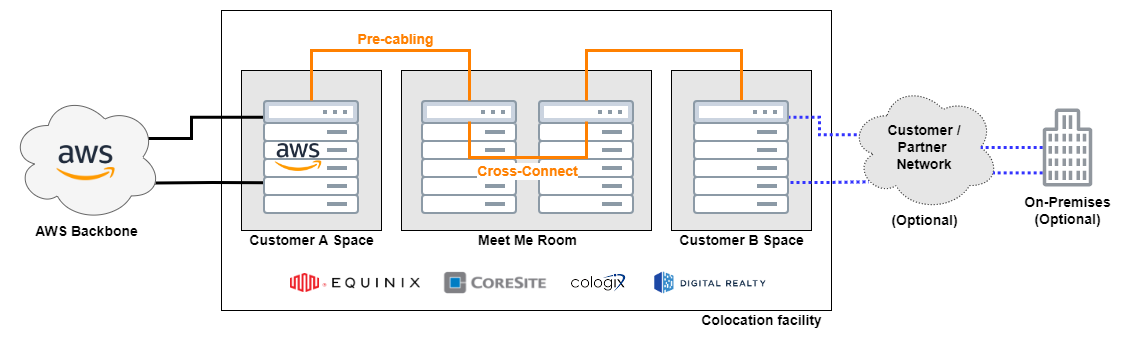
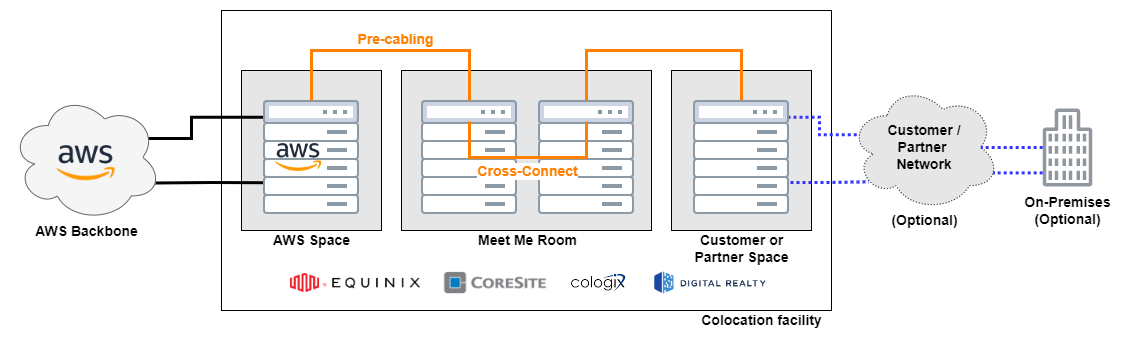
First iteration of DX Overview article

Changed region(s): [[0.5895, 0.6745, 0.7137, 0.7918], [0.2172, 0.6745, 0.3413, 0.7331]]

diff --git a/_drafts/dx-overview.md b/_drafts/dx-overview.md
@@ -12,84 +12,140 @@ tags:
 toc: true
 ---
 
-Intro of what to accomplish
+[AWS Direct Connect](https://aws.amazon.com/directconnect/) (DX) makes it easy to establish a dedicated connection from an on-premises network to AWS. Using AWS Direct Connect, you can establish private connectivity between AWS and your data center, office, factory or collocated environment. A DX connection can reduce network costs, increase bandwidth throughput, and provide a more consistent network experience than internet-based connections.
+
+This article will provide an overview of AWS Direct Connect, outlining the various elements, touch upon resiliency recommendations, connectivity options to on-premises and demystify the commercial workflow and associated costs. 
 
 # Overview
 
-AWS Direct Connect provides direct connectivity to the AWS Network via 3rd party colocation facilities (DX locations), using a cross-connect between an AWS-owned device and either a customer or partner owned device. 
+AWS Direct Connect provides direct physical connectivity to the AWS Network via 3rd party [colocation facilities (DX locations)](https://aws.amazon.com/directconnect/locations/), using a cross-connect between an AWS-owned device and either a customer or partner owned device (See figure 1). 
 
 {% include figure image_path="/content/uploads/2022/07/DX-Physical.png" caption="Figure 1: Direct Connect Overview" %}
 
+These colocation facilities are not AWS data centers, but rather colocation facilities operated by 3rd part providers such as [Equinix](https://www.equinix.com/), [CoreSite](https://www.coresite.com/), [Cologix](https://cologix.com/), [Digital Realty](https://www.digitalrealty.com/), and others. A colocation data center, often referred to as a "colo", is a large datacenter facility that rents out rack space to third parties for their servers or other network equipment. This is a very popular service that is used by businesses that may not have the resources needed to maintain their own data center, but still want to enjoy all the benefits. Or it is used by Network Service Providers to interconnect with partners - such as cloud providers - or customers.
+
+# Benefits
+
+The benefits of using AWS Direct Connect over the open Internet can be categorized into:
+
+* **Improved Performance and Reliability:** Improve application performance by connecting directly to AWS and bypassing the public internet. Using DX typically reduces the number of network hops and therefore reduced latency. 
+
+* **Reduced costs:** Reduced networking costs with low data transfer rates out of AWS compared to data egress fees over the Internet.
+
+* **Increased security:** Secure data as it moves between on-premises networks and AWS with multiple encryption options, such as MACsec (IEEE 802.1ae).
+
+
 # Elements
 
-An AWS Direct Connect consists of two elements: Physical Connection and Logical Connection
+An AWS Direct Connect consists of two elements: The physical connection and the logical virtual interfaces:
 
-## Physical Connection
+## Physical Elements: Connection
 
-Ethernet over single-mode fiber, providing an 802.1Q trunk (VLANs). 1000BASE-LX (1310 nm) transceiver for 1 gigabit Ethernet, or a 10GBASE-LR (1310 nm) transceiver for 10 gigabit Ethernet, or a 100GBASE-LR4 for 100 gigabit Ethernet..
-
-{% include figure image_path="/content/uploads/2022/07/DX-Cross-Connect.png" caption="Figure 2: Direct Connect Cross Connect" %}
-
-## Logical Connection
-
-One or more of the following virtual interface types:
-* Private virtual interface: Access an Amazon VPC using private IP addresses.
-* Public virtual interface: Access AWS services from your on-premises data center. Allow AWS services, or AWS customers access your public networks over the interface instead of traversing the internet
-* Transit virtual interface: Access one or more Amazon VPC Transit Gateways associated with Direct Connect gateways. You can use transit virtual interfaces with 1/2/5/10/100 Gbps AWS Direct Connect connections. 
-
-{% include figure image_path="/content/uploads/2022/07/DX-VIFs-Overview.png" caption="Figure 3: Direct Connect Logical Overview" %}
-
-# Connection Types
-
-There are three types of connections.
+Three different connection options exist with "Dedicated Connections", "Hosted Connections" and the legacy model of "Hosted Virtual Interfaces" - which is no longer available for new connections.  
 
 | |Dedicated Connections|Hosted Connections|Hosted Virtual Interfaces (Legacy)|
 |---|---|---|---|
 |**AWS asigned capacity**|1 Gbps, 10 Gbps or 100 Gbps|50 Mbps to 10 Gbps|None|
 |**Private or Public Virtual Interfaces (VIFs)**|50|1|1|
 |**Transit Virtual Interface (VIF)**|1|1 (if assigned capacity >= 1 Gbps)|None|
+|**Partner-only offering**|No|Yes|Yes|
 |**Covered under SLA**|Yes|No|No|
 |**Supports MACsec (802.1ae)**|Yes (10 Gbps or 100 Gbps at select locations)|No|No|
 
+### Dedicated Connection
 
-## Dedicated Connection
+In the case of a "Dedicated Connection", the customer or partner is provided with a dedicated Ethernet over single-mode fiber, providing an 802.1q trunk (VLANs) via a cross-connect within a DX location. 
+Customers can request a dedicated connection through the AWS Direct Connect console, the CLI, or the API. Each dedicated connection can provide 50 Private or Public Virtual Interfaces, as well as 1 Transit Virtual Interface. 
 
-A physical Ethernet connection associated with a single customer. Customers can request a dedicated connection through the AWS Direct Connect console, the CLI, or the API. Each dedicated connection can provide 50 Private or Public Virtual Interfaces, as well as 1 Transit Virtual Interface. 
+As depicted in figure 1, the customer or partner will order the colo operator to create a cross-connect from a meet-me room to the customer's or partner's space - also somethimes called cage. 
 
-## Hosted Connection
+{% include figure image_path="/content/uploads/2022/07/meet-me-room.jpg" caption="Figure 2: Meet-me room in a colocation facility" %}
 
-A physical Ethernet connection that an AWS Direct Connect Partner provisions on behalf of a customer. Customers request a hosted connection by contacting a partner in the AWS Direct Connect Partner Program, who provisions the connection. A hosted connection can provide 1 Private Virtual Interface or 1 Public Virtual Interface or 1 Transit Virtual Interface (If the connection speed is 1 Gbps or higher). This connection type is not covered under the [Direct Connect Service Level Agreement (SLA)](https://aws.amazon.com/directconnect/sla/).
+A meet-me room is part of a colo that you will most likely never get to see in real life (See figure 2). It is a room where only authorized personell of the colo operator is allowed access to and where data connections are established between customers of the colo. To do so, one customer has to obtain a Letter of Authorization - Connecting Facility Assignment (LOA-CFA) from the other customer - in this case AWS - and provide it to the colo operator. This LOA-CFA document specifies which pre-cabled connection is to be used for this particular customer. 
 
-## Hosted Virtual Interface (Legacy)
+The colo operator will then typically terminate the cross connect within the customer or partner space at the top of a particular rack in form of a patch panel (See Figure 3). 
 
-This is a legacy offering which is no longer available for new provisioning by AWS Direct Connect partners, but might still be found in use among customers. This connection type does not provide a bandwidth allocation (oversubscription) and only provides 1 Private Virtual Interface or 1 Public Virtual Interface. No Transit Virtual Interface can be provided. This connection type is not covered under the [Direct Connect Service Level Agreement (SLA)](https://aws.amazon.com/directconnect/sla/).
+{% include figure image_path="/content/uploads/2022/07/DX-Cross-Connect.png" caption="Figure 3: Direct Connect Cross Connect within a customer's rack" %}
+
+Depending on the chosen speed of the DX connection, different [optical transceiver](https://en.wikipedia.org/wiki/Optical_module) are then used on the customer or partner side to terminate the DX connection on network equipment: 
+
+* 1 Gigabit Ethernet: 1000BASE-LX (1310 nm) transceiver
+* 10 Gigabit Ethernet: 10GBASE-LR (1310 nm) transceiver
+* 100 gigabit Ethernet: 100GBASE-LR4 transceiver
+
+Multiple Connectivity options between the cross connect termination point and the customer's routers and workloads exist. Refer to the [Connectivity](#connectivity) section below to find out more about these options
+
+### Hosted Connection
+
+A physical Ethernet connection that an AWS Direct Connect Partner provisions on behalf of a customer.  This connection type is not covered under the [Direct Connect Service Level Agreement (SLA)](https://aws.amazon.com/directconnect/sla/).
+
+
+In the case of a Hosted Connection, the above described Dedicated Connection is operated by an [AWS Direct Connect Delivery Partner](https://aws.amazon.com/directconnect/partners/) - often a Network Service Provider - which then maps multiple virtual connections to a single physical connection. 
+Customers request a Hosted Connection by contacting the AWS Direct Connect Delivery Partner directly. A hosted connection can provide 1 Private Virtual Interface or 1 Public Virtual Interface or 1 Transit Virtual Interface (If the connection speed is 1 Gbps or higher).
+
+These AWS Direct Connect Delivery Partners can also often offer network connectivity from an AWS Direct Connect location to an off-site location, such as an office building, factory or other data center. Therefore in such a scenario all equipment within the AWS Direct Connect location would be owned and operated by the AWS Direct Connect Delivery Partner and shared among multiple customers, usually resulting in lower operational cost and quicker initial implementation times. 
+
+In this case also multiple Connectivity options between the cross connect termination point on the partner's equipment and the customer's routers and workloads exist. Refer to the [Connectivity](#connectivity) section below to find out more about these options
+
+Note that this connection type is not covered under the AWS [Direct Connect Service Level Agreement (SLA)](https://aws.amazon.com/directconnect/sla/).
+
+### Hosted Virtual Interface (Legacy)
+
+This is a legacy offering which is no longer available for new provisioning by AWS Direct Connect Delivery Partners, but might still be found in use among existing customers. This connection type does not provide a dedicated bandwidth allocation on AWS side and is therefore at risk of oversubscription. It only provides 1 Private Virtual Interface or 1 Public Virtual Interface. No Transit Virtual Interface can be provided. This connection type is not covered under the [Direct Connect Service Level Agreement (SLA)](https://aws.amazon.com/directconnect/sla/).
+
+
+## Logical Elements: Virtual Interfaces (VIF)
+
+A Direct Connect connection supports one or multiple Virtual Interfaces (VIF) as logical component. Refer to the above table to understand which DX connection type offers what kind and how many virtual interfaces. 
+
+{% include figure image_path="/content/uploads/2022/07/DX-VIFs-Overview.png" caption="Figure 4: Direct Connect Logical Overview" %}
+
+While each Virtual Interface serves a different purpose, they are all provided as an IEEE 802.1q VLAN over a trunk and require use of BGP via IPv4 and/or IPv6 (See Figure 4):
+
+* **Private virtual interface:** Access an Amazon VPC using private IP addresses. Can be combined with a [Direct Connect Gateway](https://www.edge-cloud.net/2019/09/06/dx-gateway-deep-dive/) to access VPCs outside the associated AWS region. 
+* **Public virtual interface:** Access AWS services from your on-premises data center. Allow AWS services, or AWS customers access your public networks over the interface instead of traversing the internet. Does not leverage Direct Connect Gateways (DX-GW) or Virtual Private Gateways (VGW). 
+* **Transit virtual interface:** Access one or more Amazon VPC Transit Gateways associated with Direct Connect Gateways (DX-GW). You can use transit virtual interfaces with 1/2/5/10/100 Gbps AWS Direct Connect connections. Use of a [Direct Connect Gateway](https://www.edge-cloud.net/2019/09/06/dx-gateway-deep-dive/) is mandatory. 
+
+# Resiliency
+
+In order to achieve high resiliency, AWS recommends customers to follow the [AWS Direct Connect Resiliency Recommendations](https://aws.amazon.com/directconnect/resiliency-recommendation/). These recommendations outline three different topoly types that are mapped to the coresponding AWS [Direct Connect Service Level Agreement (SLA)](https://aws.amazon.com/directconnect/sla/):
+
+* **High Resiliency for Critical Workloads:** 2x Direct Connect connections across 2x different Direct Connect locations
+* **Maximum Resiliency for Critical Workloads:** 4x Direct Connect connections across 2x different Direct Connect locations with 2x connections in each location. 
+* **Non-Critical Production Workloads or Development Workloads:** 2x Direct Connect connections across a single Direct Connect locations
+
+Redundant Direct Connect connections are highly recommended as AWS need to perform regular [maintenance](https://aws.amazon.com/premiumsupport/knowledge-center/prepare-direct-connect-maintenance/) on individual connections. 
 
 # Connectivity 
 
-Customers have multiple options to connect via a Direct Connect location:
+Customers have multiple options to connect their own network equipment via a Direct Connect location (See Figure 5).
 
-{% include figure image_path="/content/uploads/2022/07/DX-Connectivity.png" caption="Figure 3: Direct Connect Connectivity Options" %}
+{% include figure image_path="/content/uploads/2022/07/DX-Connectivity.png" caption="Figure 5: Direct Connect Connectivity Options" %}
 
-If the customer is in a data center / colo facility that is not a DX location, it is best to check with that data center / colo facility for a list of preferred [AWS Direct Connect Partners](https://aws.amazon.com/directconnect/partners/) that can provide DX connectivity into this particular data center / colo facility. Such "on-net" partners can typically provide connectivity faster. 
+* **In-location cross connect (Option 1):** If the customer has resources deployed in the same colo facility as the DX location, the colo facility can provide a cross-connect between the AWS DX equipment and the customer resources. The customer has to provide a [Letter of Authorization and Connecting Facility Assignment (LOA-CFA)](https://docs.aws.amazon.com/directconnect/latest/UserGuide/Colocation.html) to the facility for this. This option is only available for Dedicated Connections. 
 
-## In-location cross connect
+* **Layer 2 circuit (Option 2):** Customers can work with [AWS Direct Connect Delivery Partners](https://aws.amazon.com/directconnect/partners/) to extend the AWS DX connection at Layer 2 (Data link layer) via a "circuit" from the DX location to the customer location. The router installed at the customer location will directly form a BGP session with the AWS equipment. Example technologies used are [Metro Ethernet](https://en.wikipedia.org/wiki/Metro_Ethernet), [Dark fibre](https://en.wikipedia.org/wiki/Dark_fibre), or [Wavelength](https://en.wikipedia.org/wiki/Wavelength-division_multiplexing). This option can be used with Dedicated Connections as well as Hosted Connections. 
 
-If the customer has resources deployed in the same data center / colo facility as the DX location, the data center / colo facility can provide a [cross-connect](https://www.coresite.com/solutions/interconnection/cross-connects) between the AWS DX equipment and the customer resources. The customer has to provide a [Letter of Authorization and Connecting Facility Assignment (LOA-CFA)](https://docs.aws.amazon.com/directconnect/latest/UserGuide/Colocation.html) to the facility for this. 
+* **Layer 3 network (Option 3):** Customers can work with [AWS Direct Connect Delivery Partners](https://aws.amazon.com/directconnect/partners/) to extend the AWS DX connection at Layer 3 (Network layer) from the DX location to the customer location. In this case the the AWS Direct Connect Partner provides a router within the DX location that will form a BGP session with the AWS equipment. The DX partner then establishes another BGP with the customer, e.g. over an [MPLS](https://en.wikipedia.org/wiki/Multiprotocol_Label_Switching). This option can be used with Dedicated Connections as well as Hosted Connections. 
 
-## Layer 2 circuit
 
-Customers can work with [AWS Direct Connect Partners](https://aws.amazon.com/directconnect/partners/) to extend the AWS DX connection at Layer 2 (Data link layer) via a "circuit" from the DX location to the customer location. The router installed at the customer location will directly form a BGP session with the AWS equipment. Example technologies used are [Metro Ethernet](https://en.wikipedia.org/wiki/Metro_Ethernet), [Dark fibre](https://en.wikipedia.org/wiki/Dark_fibre), or [Wavelength](https://en.wikipedia.org/wiki/Wavelength-division_multiplexing).
 
-## Layer 3 network
+If the customer is in a data center or colo facility that is not a DX location, it is best to check with that data center or colo facility for a list of preferred [AWS Direct Connect Delivery Partners](https://aws.amazon.com/directconnect/partners/) that can provide DX connectivity into this particular data center or colo facility. Such "on-net" partners can typically provide connectivity faster. 
 
-Customers can work with [AWS Direct Connect Partners](https://aws.amazon.com/directconnect/partners/) to extend the AWS DX connection at Layer 3 (Network layer) from the DX location to the customer location. In this case the the AWS Direct Connect Partner provides a router within the DX location that will form a BGP session with the AWS equipment. The DX partner then established another BGP with the customer, e.g. over an [MPLS](https://en.wikipedia.org/wiki/Multiprotocol_Label_Switching).  
 
 # Commercial Workflow
 
-End-customers have a direct business relationship with AWS and are charged directly for all consumed [AWS services](https://aws.amazon.com/directconnect/pricing/). This includes port-hour fees, charged at a per hour rate and applicable to both Dedicated Connections and Hosted Connections, as well as data transfer prices, charged at a per gigabyte rate. In addition end-customers will need to engage with [Direct Connect Delivery Partners](https://aws.amazon.com/directconnect/partners/) such as carriers, network service providers (NSP), or colocation providers to provide them with network connectivity to AWS. For this they will have a separate contract with this partner and the partner will invoice end-customers for the connectivity services they provide.
+End-customers have a direct business relationship with AWS and are charged directly for all consumed [AWS services](https://aws.amazon.com/directconnect/pricing/). AWS Direct Connect is priced by AWS based on two criteria: 
 
-{% include figure image_path="/content/uploads/2022/07/Direct-Connect-Commercial-Workflow.png" caption="Figure 4: Commercial Workflow" %}
+* **Port hours:** This is determined based on the capacity and the type of connection (It could be dedicated or hosted connection). 
+* **Outbound data transfer:** The outbound charges are calculated for private virtual interfaces and transit virtual interfaces. This refers to the data which is transferred over the AWS Direct Connect in terms of GB. No additional charges are inferred when a multi-account Direct Connect gateway is used.  
+
+In addition end-customers will need to engage with [Direct Connect Delivery Partners](https://aws.amazon.com/directconnect/partners/) such as carriers, network service providers (NSP), or colocation providers to provide them with network connectivity to AWS. For this they will have a separate contract with this partner and the partner will invoice end-customers for the connectivity services they provide.
+
+{% include figure image_path="/content/uploads/2022/07/Direct-Connect-Commercial-Workflow.png" caption="Figure 6: Commercial Workflow" %}
 
 # Summary
 
-tbd
+This article provided an overview of [AWS Direct Connect](https://aws.amazon.com/directconnect/) (DX), including the physical element of Dedicated and Hosted Connections as well as the logical elements of Virtual Interfaces (VIF). It touched upoen resiliency recommendations, connectivity options between AWS Direct Connect locations and on-premises locations as well as demystified the commercial workflow and associated costs.
+
+You should now be in a position to understand how AWS DX makes it easy to establish a dedicated connection from an on-premises network to AWS. Using AWS Direct Connect, you can establish private connectivity between AWS and your data center, office, factory or collocated environment. A DX connection can reduce network costs, increase bandwidth throughput, and provide a more consistent network experience than internet-based connections.
